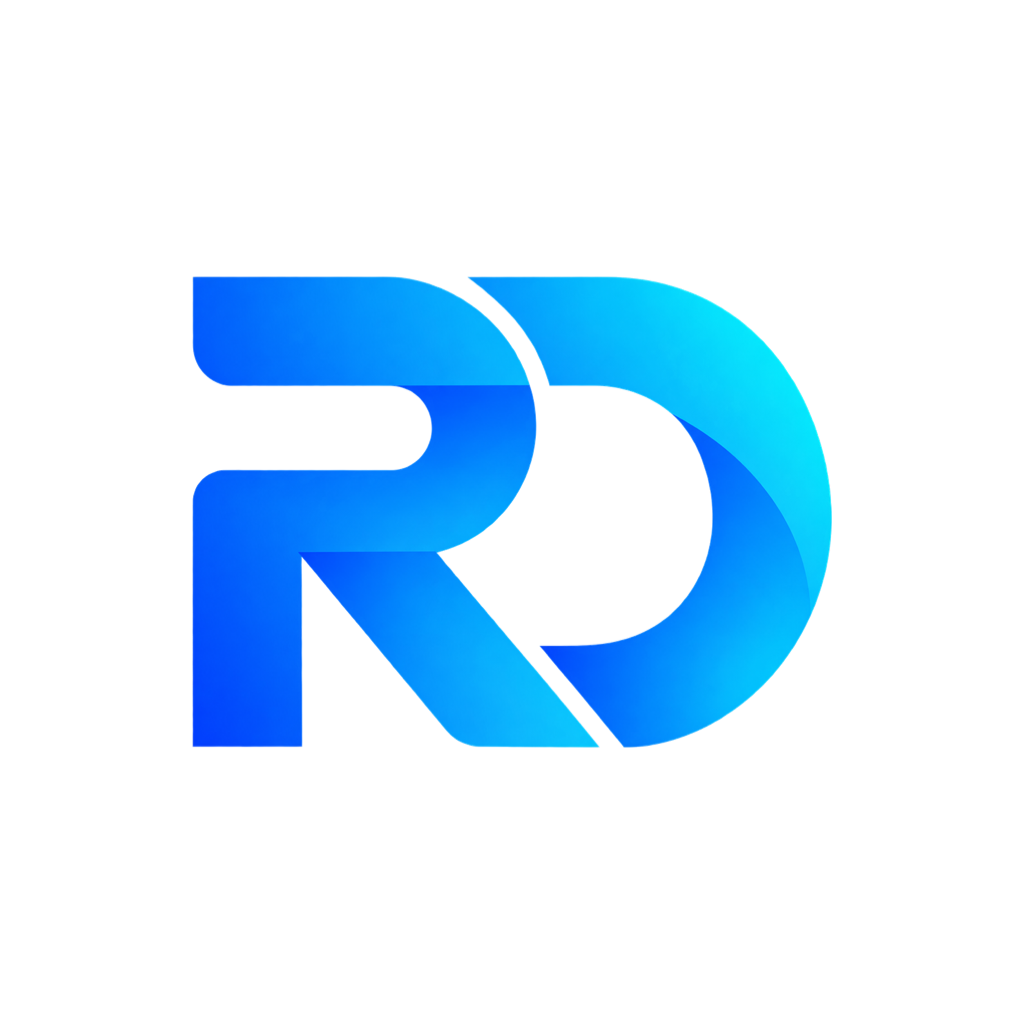
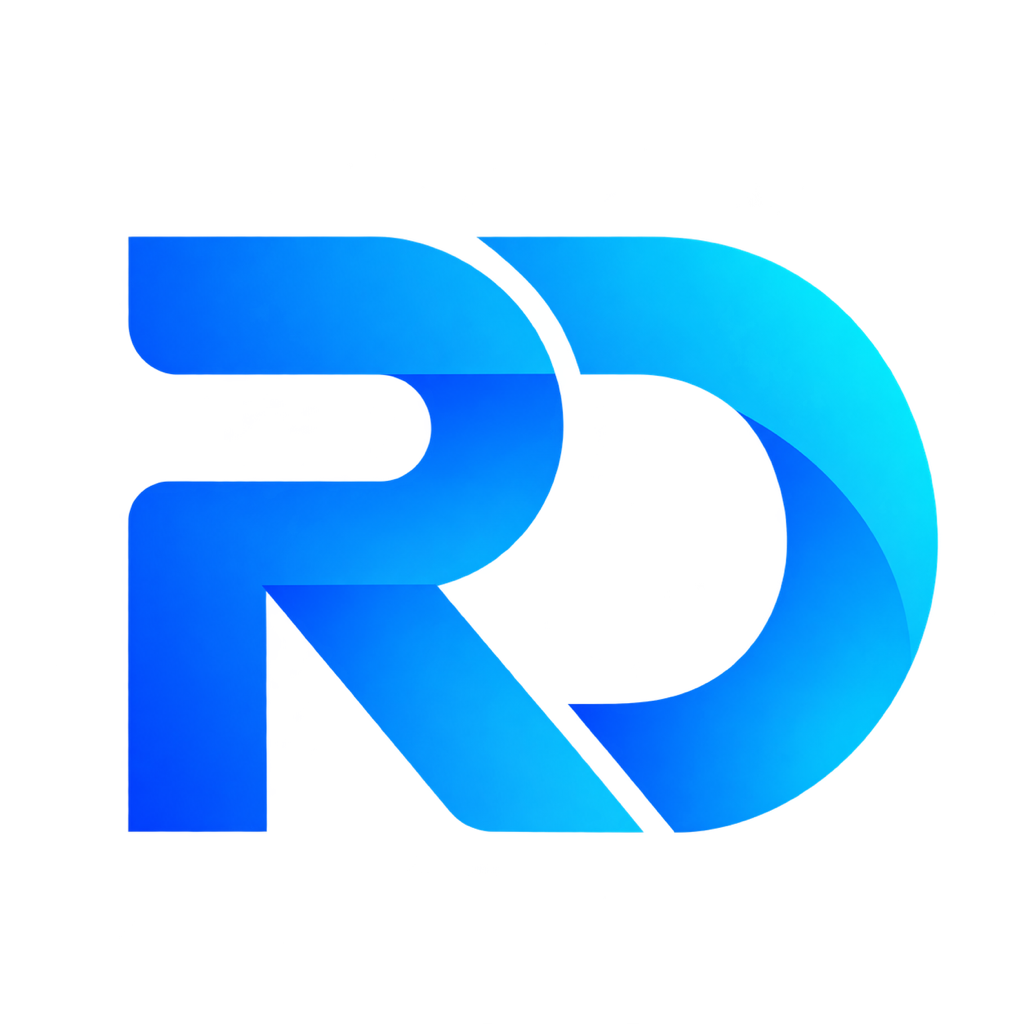
feat(pro): use supplied RD artwork as-is and add color variants
Vivid and soft now show the supplied images exactly as designed. Night,
ocean and aurora keep the vivid logo's original placement and scale on
new backgrounds (white logo on ocean).

Changed region(s): [[0.125, 0.2188, 0.9375, 0.8125]]

diff --git a/scripts/generate_app_icons.swift b/scripts/generate_app_icons.swift
@@ -99,44 +99,44 @@ struct Preset {
   var drawForeground: ((CGContext) -> Void)? = nil  // original artwork written to `foreground`
 }
 
-// Supplied artwork (design/app-icons, not packaged): a logo on a white canvas. White is keyed
-// to transparency with anti-aliased edges un-mixed from white, the logo is cropped to its
-// bounds and fitted into the icon safe zone.
-func extractLogo(_ path: String, maxWidth: CGFloat = 640, maxHeight: CGFloat = 560) -> (CGContext) -> Void {
+// Supplied artwork (design/app-icons, not packaged): a logo on a white canvas.
+func flattened(_ path: String) -> CGContext {
+  let source = load(path)
+  let raw = canvas(source.width)  // sources are square
+  // Transparent source pixels read as the white canvas they were designed on.
+  raw.setFillColor(color(0xFFFFFF)); raw.fill(CGRect(x: 0, y: 0, width: raw.width, height: raw.height))
+  raw.draw(source, in: CGRect(x: 0, y: 0, width: raw.width, height: raw.height))
+  return raw
+}
+
+// The supplied image exactly as designed, only resized to the icon canvas.
+func originalArtwork(_ path: String) -> (CGContext) -> Void {
   return { context in
-    let source = load(path)
-    let width = source.width, height = source.height
-    let raw = canvas(width)  // sources are square
-    // Flatten onto white first: transparent source pixels must key out like the white canvas.
-    raw.setFillColor(color(0xFFFFFF)); raw.fill(CGRect(x: 0, y: 0, width: width, height: height))
-    raw.draw(source, in: CGRect(x: 0, y: 0, width: width, height: height))
-    let pixels = raw.data!.bindMemory(to: UInt8.self, capacity: width * height * 4)
-    let stride = raw.bytesPerRow
-    var minX = width, minY = height, maxX = -1, maxY = -1
-    for y in 0..<height {
-      for x in 0..<width {
-        let i = y * stride + x * 4
+    context.draw(flattened(path).makeImage()!, in: CGRect(x: 0, y: 0, width: size, height: size))
+  }
+}
+
+// The supplied logo in its original position and scale, with the white canvas keyed to
+// transparency (anti-aliased edges un-mixed from white), optionally filled white.
+func keyedArtwork(_ path: String, white: Bool = false) -> (CGContext) -> Void {
+  return { context in
+    let raw = flattened(path)
+    let pixels = raw.data!.bindMemory(to: UInt8.self, capacity: raw.bytesPerRow * raw.height)
+    for y in 0..<raw.height {
+      for x in 0..<raw.width {
+        let i = y * raw.bytesPerRow + x * 4
         let r = CGFloat(pixels[i]), g = CGFloat(pixels[i + 1]), b = CGFloat(pixels[i + 2])
         // Distance from white; 245+ is background, 185- is fully logo.
         let alpha = max(0, min(1, (245 - min(r, g, b)) / 60))
-        if alpha <= 0 {
-          pixels[i] = 0; pixels[i + 1] = 0; pixels[i + 2] = 0; pixels[i + 3] = 0; continue
-        }
-        // Un-mix the white edge, then store premultiplied.
         func channel(_ value: CGFloat) -> UInt8 {
-          UInt8(max(0, min(255, (value - (1 - alpha) * 255) / alpha)) * alpha)
+          white ? UInt8(255 * alpha) : UInt8(max(0, min(255, (value - (1 - alpha) * 255) / max(alpha, 0.001))) * alpha)
         }
         pixels[i] = channel(r); pixels[i + 1] = channel(g); pixels[i + 2] = channel(b)
         pixels[i + 3] = UInt8(alpha * 255)
-        if alpha > 0.5 { minX = min(minX, x); maxX = max(maxX, x); minY = min(minY, y); maxY = max(maxY, y) }
       }
     }
-    // Bitmap rows run top-down; CGImage cropping uses the same orientation.
-    let bounds = CGRect(x: minX, y: minY, width: maxX - minX + 1, height: maxY - minY + 1)
-    let logo = raw.makeImage()!.cropping(to: bounds)!
-    let scale = min(maxWidth / bounds.width, maxHeight / bounds.height)
-    let w = bounds.width * scale, h = bounds.height * scale
-    context.draw(logo, in: CGRect(x: (CGFloat(size) - w) / 2, y: (CGFloat(size) - h) / 2, width: w, height: h))
+    if white { context.setShadow(offset: CGSize(width: 0, height: -14), blur: 40, color: color(0x001A4D, 0.28)) }
+    context.draw(raw.makeImage()!, in: CGRect(x: 0, y: 0, width: size, height: size))
   }
 }
 
@@ -169,9 +169,22 @@ let presets: [Preset] = [
     glow(context, x: 0.3, y: 0.18, radius: 0.6, 0xFFFFFF, 0.45)
   },
   Preset(name: "rd_vivid", resource: "icon_rd_vivid", foreground: "icon_rd_vivid_fg",
-    background: whiteBackground, drawForeground: extractLogo("design/app-icons/rd_vivid.png")),
+    background: whiteBackground, drawForeground: originalArtwork("design/app-icons/rd_vivid.png")),
   Preset(name: "rd_soft", resource: "icon_rd_soft", foreground: "icon_rd_soft_fg",
-    background: whiteBackground, drawForeground: extractLogo("design/app-icons/rd_soft.png"))
+    background: whiteBackground, drawForeground: originalArtwork("design/app-icons/rd_soft.png")),
+  Preset(name: "rd_vivid_night", resource: "icon_rd_vivid_night", foreground: "icon_rd_vivid_keyed", background: { context in
+    linear(context, [(0x17264F, 0), (0x0A1128, 0.6), (0x05081A, 1)], angle: 180)
+    glow(context, x: 0.8, y: 0.2, radius: 0.55, 0x1FC8FF, 0.32)
+    glow(context, x: 0.15, y: 0.85, radius: 0.5, 0x2F5BFF, 0.3)
+  }, drawForeground: keyedArtwork("design/app-icons/rd_vivid.png")),
+  Preset(name: "rd_vivid_ocean", resource: "icon_rd_vivid_ocean", foreground: "icon_rd_vivid_keyed_white", background: { context in
+    linear(context, [(0x22D3F5, 0), (0x1C8BFF, 0.5), (0x0B4FE6, 1)], angle: 145)
+    glow(context, x: 0.8, y: 0.15, radius: 0.5, 0xFFFFFF, 0.25)
+  }, drawForeground: keyedArtwork("design/app-icons/rd_vivid.png", white: true)),
+  Preset(name: "rd_vivid_aurora", resource: "icon_rd_vivid_aurora", foreground: "icon_rd_vivid_keyed", background: { context in
+    linear(context, [(0xB9F3EA, 0), (0xCDC9FF, 0.35), (0xF4C8E5, 0.7), (0xF9E3B8, 1)], angle: 115)
+    glow(context, x: 0.3, y: 0.18, radius: 0.6, 0xFFFFFF, 0.45)
+  }, drawForeground: keyedArtwork("design/app-icons/rd_vivid.png"))
 ]
 
 func rounded(_ context: CGContext) {
